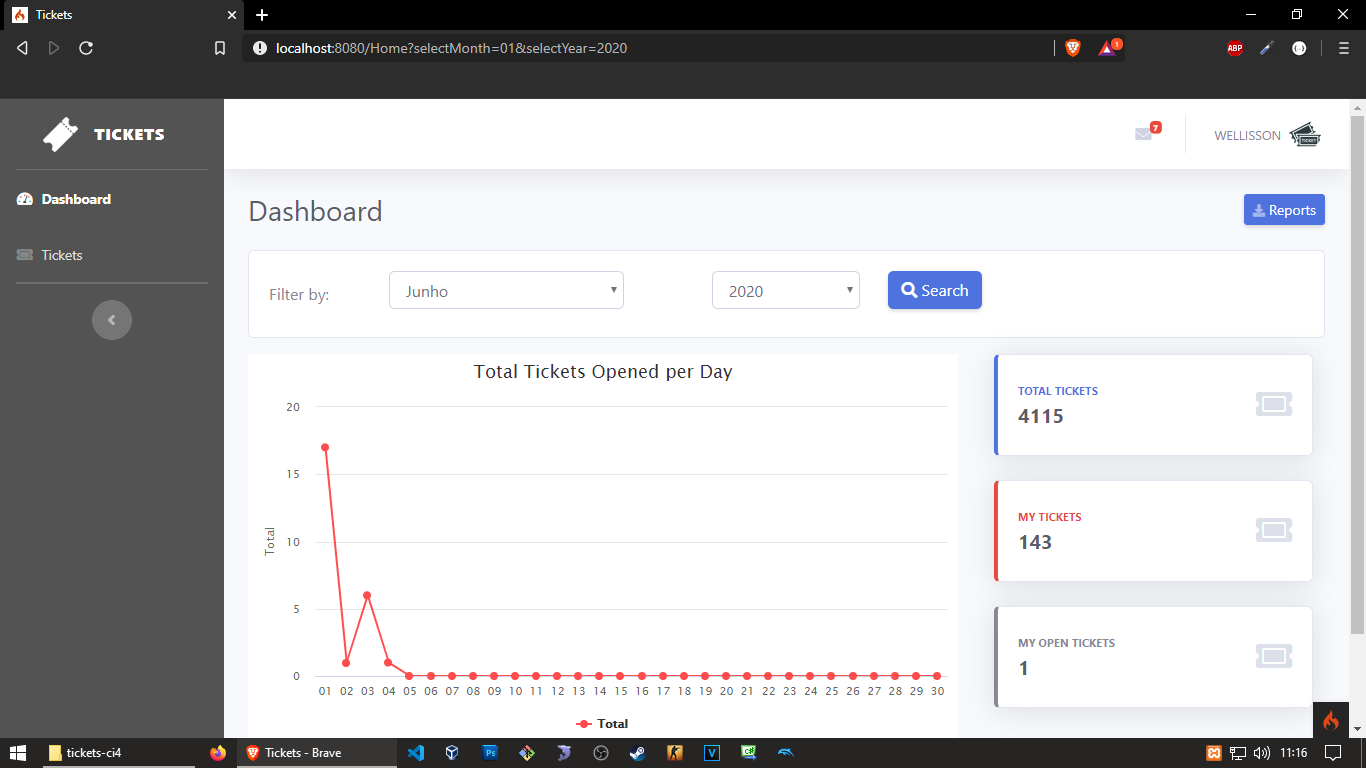
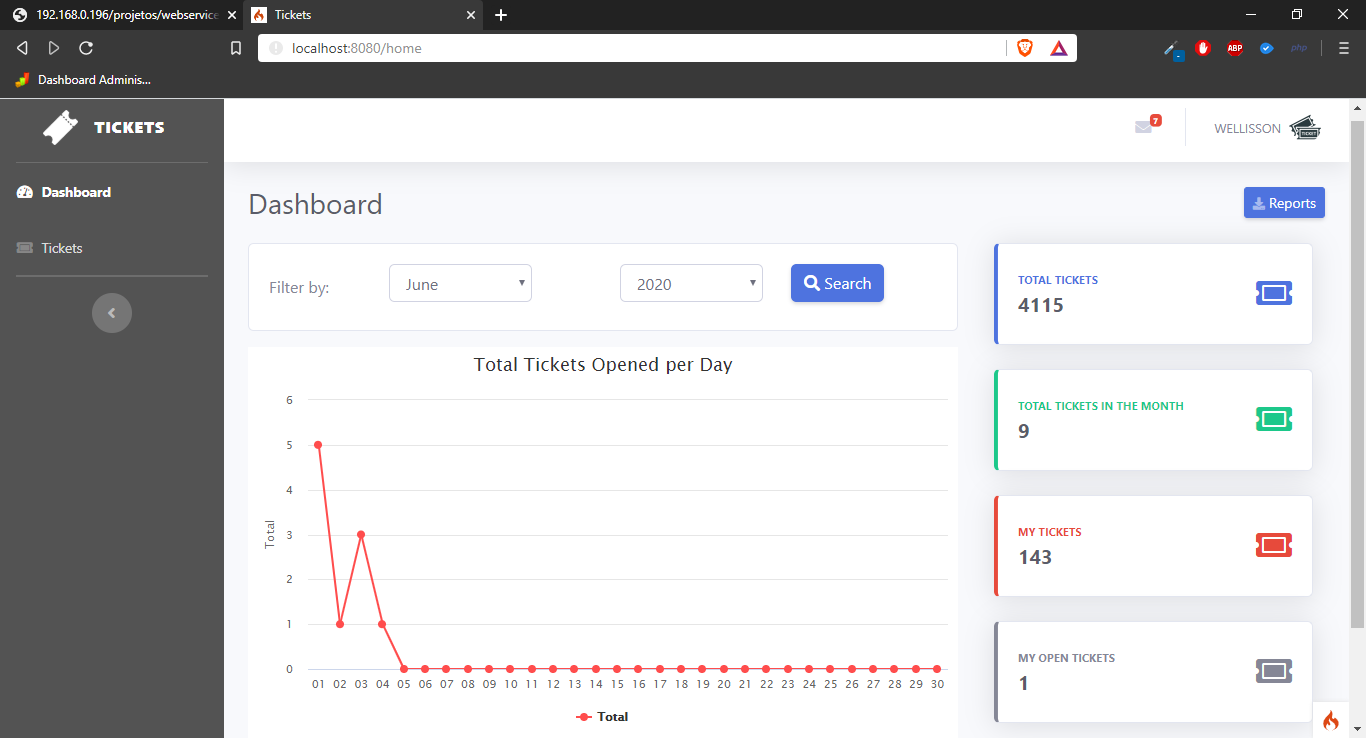
asst

diff --git a/public/assets/js/pages/tickets.js b/public/assets/js/pages/tickets.js
@@ -26,6 +26,7 @@ function loadCardTickets(monthYear) {
 
 function populateCardsDash(data) {
     $("#totalTickets").text(data.totalTickets);
+    $("#totalTicketsMonth").text(data.totalTicketsMonth);
     $("#myTickets").text(data.myTickets);
     $("#openTickets").text(data.myOpenTickets);
 }

diff --git a/app/Views/home/index.php b/app/Views/home/index.php
@@ -1,56 +1,63 @@
 <div class="container-fluid">
     <div class="d-sm-flex align-items-center justify-content-between mb-4">
         <h1 class="h3 mb-0 text-gray-800">Dashboard</h1>
-        <a href="#" class="d-none d-sm-inline-block btn btn-sm btn-primary shadow-sm"><i class="fas fa-download fa-sm text-white-50"></i> Reports</a>
+        <a href="#" class="d-none d-sm-inline-block btn btn-sm btn-primary shadow-sm"><i
+                class="fas fa-download fa-sm text-white-50"></i> Reports</a>
     </div>
 
     <div class="row form-group">
-        <div class="col-md-12">
-            <div class="card form-group">
-                <div class="card-body">
-                    <form id="ticketsFilter" class="form-inline">
-                        <label for="selectMes" class="sr">Filter by: </label>
-                        <div class="col-md-3 mx-sm-5 mb-2">
-                            <select class="form-control" name="selectMonth" id="selectMonth" style="width: 100%">
-                                <option value="01">Janeiro</option>
-                                <option value="02">Fevereiro</option>
-                                <option value="03">Março</option>
-                                <option value="04">Abril</option>
-                                <option value="05">Maio</option>
-                                <option value="06">Junho</option>
-                                <option value="07">Julho</option>
-                                <option value="08">Agosto</option>
-                                <option value="09">Setembro</option>
-                                <option value="10">Outubro</option>
-                                <option value="11">Novembro</option>
-                                <option value="12">Dezembro</option>
-                            </select>
-                        </div>
+        <div class="col-md-8">
+            <div class="row">
+                <div class="col-md-12 col-lg-12">
+                    <div class="card form-group">
+                        <div class="card-body">
+                            <form id="ticketsFilter" class="form-inline">
+                                <label for="selectMes" class="sr">Filter by: </label>
+                                <div class="col-md-3 mx-sm-5 mb-2">
+                                    <select class="form-control" name="selectMonth" id="selectMonth"
+                                        style="width: 100%">
+                                        <option value="01">January</option>
+                                        <option value="02">February</option>
+                                        <option value="03">March</option>
+                                        <option value="04">April</option>
+                                        <option value="05">May</option>
+                                        <option value="06">June</option>
+                                        <option value="07">July</option>
+                                        <option value="08">August</option>
+                                        <option value="09">September</option>
+                                        <option value="10">October</option>
+                                        <option value="11">November</option>
+                                        <option value="12">December</option>
+                                    </select>
+                                </div>
 
-                        <div class="col-md-2 mx-sm-3 mb-2">
-                            <select class="form-control" name="selectYear" id="selectYear" style="width: 100%">
-                                <option value="2020">2020</option>
-                                <option value="2019">2019</option>
-                                <option value="2018">2018</option>
-                                <option value="2017">2017</option>
-                                <option value="2016">2016</option>
-                                <option value="2015">2015</option>
-                                <option value="2014">2014</option>
-                                <option value="2013">2013</option>
-                                <option value="2012">2012</option>
-                                <option value="2011">2011</option>
-                                <option value="2010">2010</option>
-                            </select>
-                        </div>
+                                <div class="col-md-3 mx-sm-3 mb-2">
+                                    <select class="form-control" name="selectYear" id="selectYear" style="width: 100%">
+                                        <option value="2020">2020</option>
+                                        <option value="2019">2019</option>
+                                        <option value="2018">2018</option>
+                                        <option value="2017">2017</option>
+                                        <option value="2016">2016</option>
+                                        <option value="2015">2015</option>
+                                        <option value="2014">2014</option>
+                                        <option value="2013">2013</option>
+                                        <option value="2012">2012</option>
+                                        <option value="2011">2011</option>
+                                        <option value="2010">2010</option>
+                                    </select>
+                                </div>
 
-                        <button type="text" id="searchTicket" class="btn btn-primary mb-2 shadow-sm"><i class="fa fa-search"></i> Search</button>
-                    </form>
+                                <button type="text" id="searchTicket" class="btn btn-primary mb-2 shadow-sm"><i
+                                        class="fa fa-search"></i> Search</button>
+                            </form>
+                        </div>
+                    </div>
+                </div>
+
+                <div class="col-md-12 col-lg-12 form-group">
+                    <div id="chartLinha"></div>
                 </div>
             </div>
-        </div>
-
-        <div class="col-md-8">
-            <div id="chartLinha"></div>
         </div>
 
         <div class="col-md-4">
@@ -59,11 +66,29 @@
                     <div class="card-body">
                         <div class="row no-gutters align-items-center">
                             <div class="col mr-2">
-                                <div class="text-xs font-weight-bold text-primary text-uppercase mb-1">Total Tickets</div>
+                                <div class="text-xs font-weight-bold text-primary text-uppercase mb-1">Total Tickets
+                                </div>
                                 <div class="h5 mb-0 font-weight-bold text-gray-800" id="totalTickets"> 0</div>
                             </div>
                             <div class="col-auto">
-                                <i class="fas fa-ticket-alt fa-2x text-gray-300"></i>
+                                <i class="fas fa-ticket-alt fa-2x text-primary"></i>
+                            </div>
+                        </div>
+                    </div>
+                </div>
+            </div>
+
+            <div class="col-xl-12 col-md-12 mb-4">
+                <div class="card border-left-success shadow h-100 py-2">
+                    <div class="card-body">
+                        <div class="row no-gutters align-items-center">
+                            <div class="col mr-2">
+                                <div class="text-xs font-weight-bold text-success text-uppercase mb-1">Total Tickets in
+                                    the Month</div>
+                                <div class="h5 mb-0 font-weight-bold text-gray-800" id="totalTicketsMonth">0</div>
+                            </div>
+                            <div class="col-auto">
+                                <i class="fas fa-ticket-alt fa-2x text-success"></i>
                             </div>
                         </div>
                     </div>
@@ -79,7 +104,7 @@
                                 <div class="h5 mb-0 font-weight-bold text-gray-800" id="myTickets">0</div>
                             </div>
                             <div class="col-auto">
-                                <i class="fas fa-ticket-alt fa-2x text-gray-300"></i>
+                                <i class="fas fa-ticket-alt fa-2x text-danger"></i>
                             </div>
                         </div>
                     </div>
@@ -91,52 +116,53 @@
                     <div class="card-body">
                         <div class="row no-gutters align-items-center">
                             <div class="col mr-2">
-                                <div class="text-xs font-weight-bold text-secondary text-uppercase mb-1">My Open Tickets</div>
+                                <div class="text-xs font-weight-bold text-secondary text-uppercase mb-1">My Open Tickets
+                                </div>
                                 <div class="h5 mb-0 font-weight-bold text-gray-800" id="openTickets">0</div>
                             </div>
                             <div class="col-auto">
-                                <i class="fas fa-ticket-alt fa-2x text-gray-300"></i>
+                                <i class="fas fa-ticket-alt fa-2x text-secondary"></i>
                             </div>
                         </div>
                     </div>
                 </div>
             </div>
         </div>
-    </div> 
+    </div>
 </div>
 
 <script src="<?= base_url('')?>/assets/js/pages/tickets.js?v=<?=JS_VERSION?>"></script>
 
 <script>
-    $(document).ready(() => {
+$(document).ready(() => {
 
-        checkOptionsFilter();
+    checkOptionsFilter();
+    loadTicket();
+
+    $('#ticketsFilter').submit((e) => {
+        e.preventDefault();
+
         loadTicket();
+    })
+});
 
-        $('#ticketsFilter').submit((e) => {
-            e.preventDefault();
+function loadTicket() {
+    const yearMonth = `${$('#selectMonth option:selected').val()}${$('#selectYear option:selected').val()}`
 
-            loadTicket();
-        })
-    });
+    loadChartTickets(yearMonth);
+    loadCardTickets(yearMonth);
+}
 
-    function loadTicket() {
-        const yearMonth = `${$('#selectMonth option:selected').val()}${$('#selectYear option:selected').val()}`
-        
-        loadChartTickets(yearMonth);
-        loadCardTickets(yearMonth);
+function checkOptionsFilter() {
+    const dateNow = new Date();
+    const year = dateNow.getFullYear();
+    let month = dateNow.getMonth() + 1;
+
+    if (month <= 9) {
+        month = `0${month}`
     }
 
-    function checkOptionsFilter() {
-        const dateNow = new Date();
-        const year = dateNow.getFullYear();
-        let month = dateNow.getMonth()+1;
-
-        if (month <= 9) {
-            month = `0${month}`
-        }
-
-        $('#selectMonth').val(month)
-        $('#selectYear').val(year)
-    }
+    $('#selectMonth').val(month)
+    $('#selectYear').val(year)
+}
 </script>

diff --git a/app/Views/user/auth.php b/app/Views/user/auth.php
@@ -7,7 +7,7 @@
     <meta name="description" content="">
     <meta name="author" content="">
     <link rel="icon" type="image/png" sizes="16x16" href="<?=base_url('assets/img/icon.png')?>">
-    <title>Autenticação Chamados</title>
+    <title>Authentication Tickets</title>
 
     <!-- Custom fonts for this template-->
     <link href="<?=base_url()?>/vendor/fontawesome-free/css/all.min.css" rel="stylesheet" type="text/css">
@@ -31,9 +31,9 @@
                                 <div class="p-5">
                                     <div class="text-center">
                                         <div class="img-login">
-                                            <img src="<?=base_url('assets/img/icon.png')?>" alt="Manager" title="Manager" width="100" height="auto">
+                                            <img src="<?=base_url('assets/img/icon.png')?>" alt="logo" title="logo" width="100" height="auto">
                                         </div>
-                                        <h1 class="h4 text-gray-900 mb-4 mt-4">Bem vindo! Autenticação</h1>
+                                        <h1 class="h4 text-gray-900 mb-4 mt-4">Welcome again!</h1>
                                         
                                         <?php if (isset($validation)): ?>
                                             <div class="alert alert-danger">
@@ -51,14 +51,14 @@
                                         
                                     </div>
 
-                                    <form class="user" method="post" id="form" action="<?=base_url('User/login')?>">
+                                    <form class="user" method="post" id="form" action="<?=base_url('login')?>">
                                         <div class="form-group">
-                                            <input type="text" class="form-control form-control-user" id="login" name="login" aria-describedby="emailHelp" placeholder="Informe seu usuario..." >
+                                            <input type="text" class="form-control form-control-user" id="login" name="login" aria-describedby="emailHelp" placeholder="Type your user..." >
                                         </div>
                                         <div class="form-group">
-                                            <input type="password" class="form-control form-control-user" id="password" name="password" placeholder="Informe sua senha..." >
+                                            <input type="password" class="form-control form-control-user" id="password" name="password" placeholder="Type your password..." >
                                         </div>
-                                        <button class="btn btn-gray btn-user btn-block" type="submit"> ENTRAR </button>
+                                        <button class="btn btn-gray btn-user btn-block" type="submit"> Login </button>
                                         <hr>
                                     </form>
                                 </div>

diff --git a/app/Models/TicketModel.php b/app/Models/TicketModel.php
@@ -36,7 +36,7 @@ class TicketModel extends Model {
             $filter = "DATE_FORMAT(chamado.inicio, '%m%Y') = $monthYear";
         }
 
-        $sql = "SELECT DISTINCT COUNT(chamado.cod) AS total_chamados, DATE_FORMAT(chamado.inicio, '%d') as dia, DATE_FORMAT(chamado.inicio, '%d/%m/%Y') AS diamesano
+        $sql = "SELECT COUNT(DISTINCT(chamado.cod)) AS total_chamados, DATE_FORMAT(chamado.inicio, '%d') as dia, DATE_FORMAT(chamado.inicio, '%d/%m/%Y') AS diamesano
         FROM chamado
         LEFT JOIN evento ON chamado.cod = evento.chamado_cod
         LEFT JOIN AREA ON evento.area_cod = area.cod
@@ -88,11 +88,21 @@ class TicketModel extends Model {
         WHERE 
             $filter AND evento.atendente_cod = 8 AND chamado.status = 0";
 
+        $sql4 = "SELECT 
+            DISTINCT chamado.cod
+        FROM 
+            chamado
+        INNER JOIN 
+            evento ON chamado.cod = evento.chamado_cod
+        WHERE 
+            $filter";
+
         
         return [
             'totalTickets' => count($this->db->query($sql1)->getResult()),
             'myTickets' => count($this->db->query($sql2)->getResult()),
-            'myOpenTickets' => count($this->db->query($sql3)->getResult())
+            'myOpenTickets' => count($this->db->query($sql3)->getResult()),
+            'totalTicketsMonth' => count($this->db->query($sql4)->getResult())
         ];
     }
 }

diff --git a/app/Config/Routes.php b/app/Config/Routes.php
@@ -33,7 +33,7 @@ $routes->setAutoRoute(true);
 //$routes->get('/', 'Home::index');
 //$routes->get('/', 'User::index');
 $routes->post('login', 'User::login');
-$routes->post('logout', 'User::logout');
+$routes->get('logout', 'User::logout');
 //$routes->match(['post', 'get'], 'logout', 'User::logout');
 
 $routes->get('/', 'User::index', [
